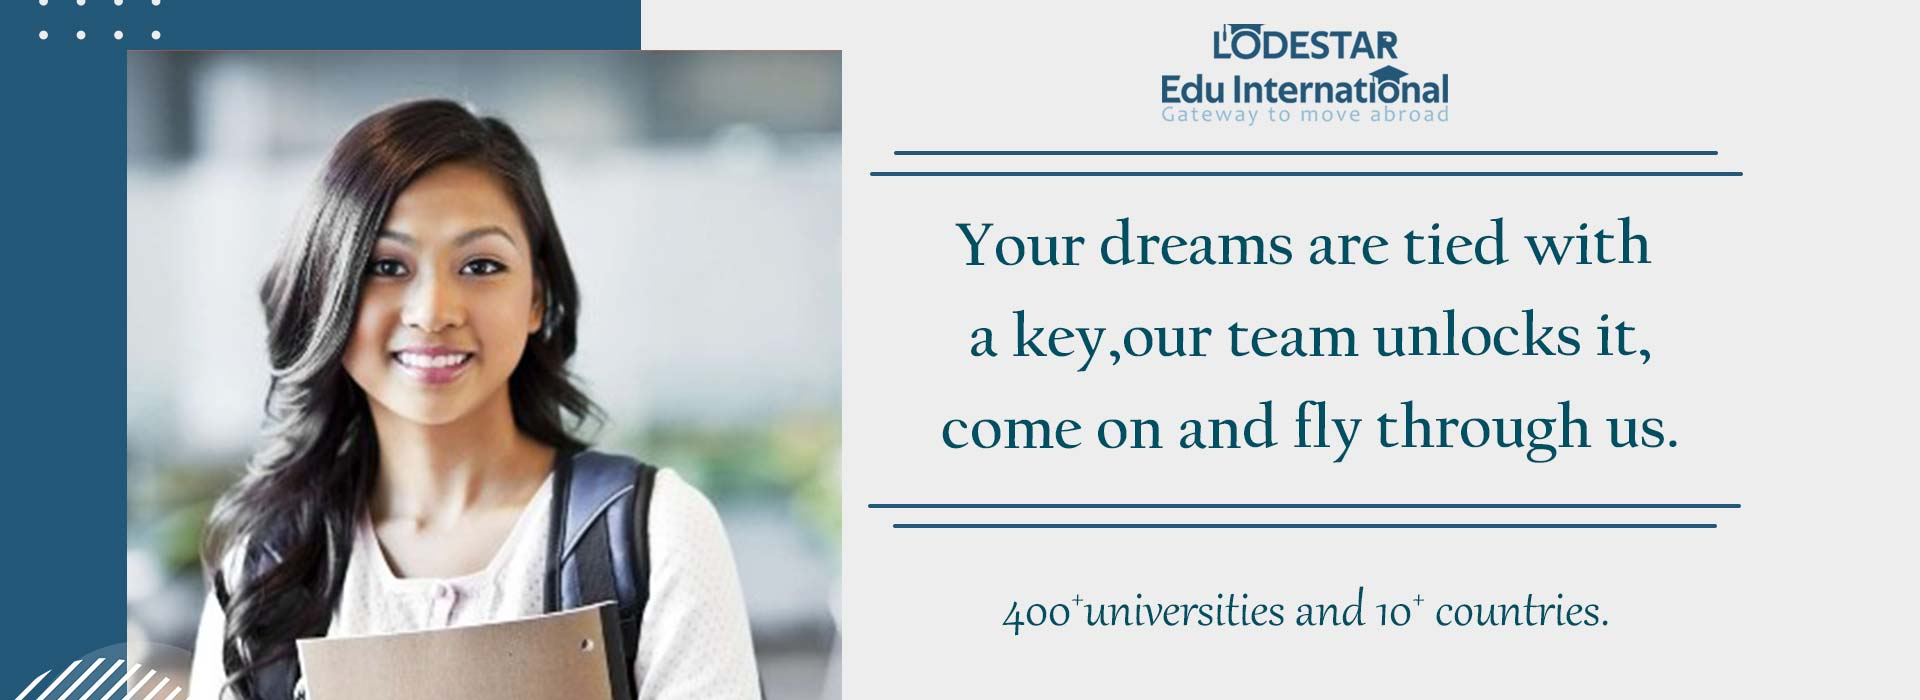
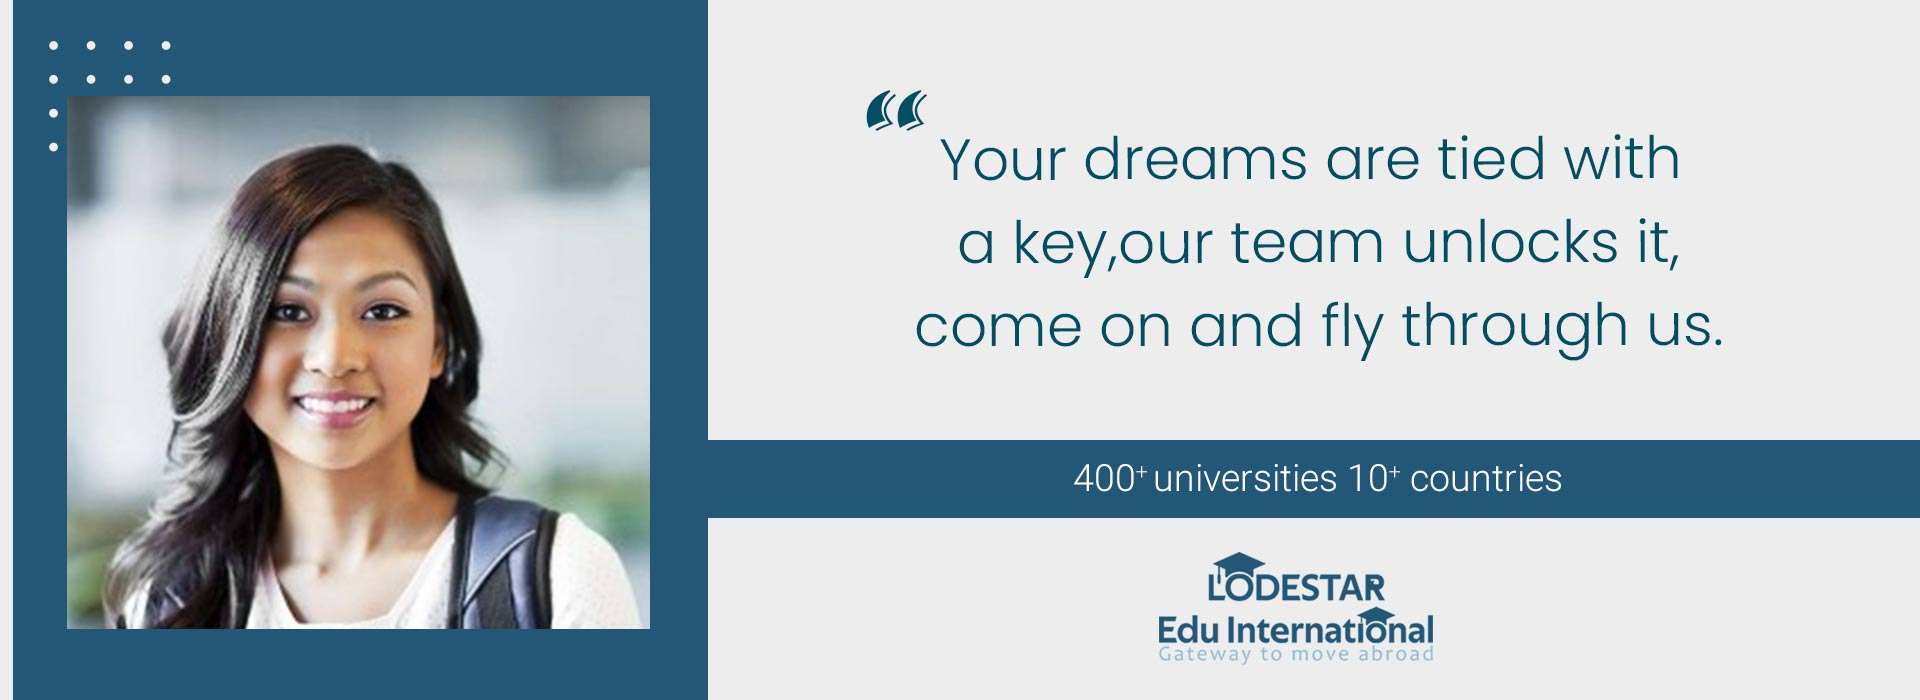
new image for slider

diff --git a/index.html b/index.html
@@ -241,10 +241,10 @@
         <!-- Swiper -->
         <div class="swiper-container">
             <div class="swiper-wrapper">
-                <div class="swiper-slide"><img style="width: 100%;" src="images/slides/start.jpg"></div>
-                <div class="swiper-slide"><img src="images/slides/uk.jpg"></div>
-                <div class="swiper-slide"><img src="images/slides/canada.jpg"></div>
-                <div class="swiper-slide"><img src="images/slides/last.jpg"></div>
+                <div class="swiper-slide"><img style="width: 100%;" src="images/slides/start_new.jpg"></div>
+                <div class="swiper-slide"><img src="images/slides/uk_new.jpg"></div>
+                <div class="swiper-slide"><img src="images/slides/canada_new.jpg"></div>
+                <div class="swiper-slide"><img src="images/slides/last_new.jpg"></div>
             </div>
             <!-- Add Pagination -->
             <div class="swiper-pagination"></div>
